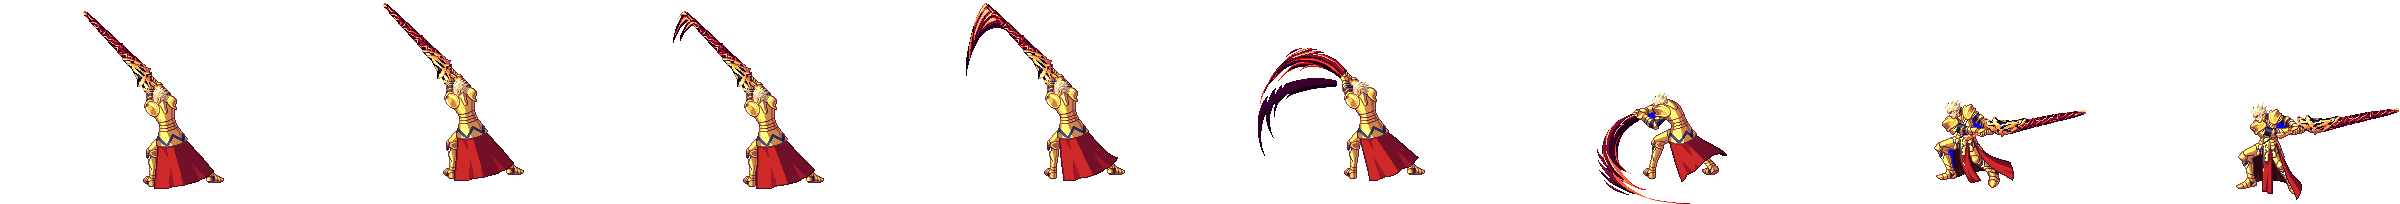
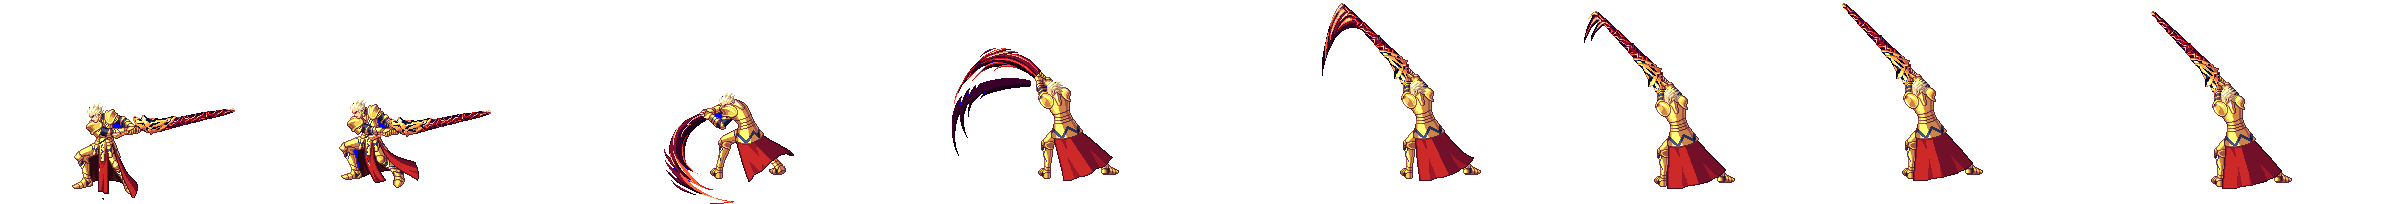
코드 수정
캐릭터 컨트롤러 수정

diff --git a/lab05_-_game_fraemwork2/main_state.py b/lab05_-_game_fraemwork2/main_state.py
@@ -14,9 +14,9 @@ import title_state
 
 name = "MainState"
 
-SKILL_MAXNUM = 4
+SKILL_MAXNUM = 5
 RIGHT,LEFT,UP,DOWN,Z,X = range(6)
-STATE_IDLE, STATE_MOVE, STATE_SKILL1, STATE_SKILL2,STATE_SKILL3 = range(SKILL_MAXNUM+1)
+STATE_IDLE, STATE_MOVE, STATE_SKILL1, STATE_SKILL2,STATE_SKILL3 = range(SKILL_MAXNUM)
 MON_STATE_IDLE,MON_STATE_MOVE,MON_STATE_ATTACK = range(3)
 InputKey = False
 
@@ -110,7 +110,13 @@ class Boy:
         self.image1 = load_image('skill3_right.png')
         self.image2 = load_image('skill1_right.png')
         self.image3 = load_image('walk_right.png')
-        #self.dir = 1
+
+        self.image4 = load_image('skill2_left.png')
+        self.image5 = load_image('skill3_left.png')
+        self.image6 = load_image('skill1_left.png')
+        self.image7 = load_image('walk_left.png')
+
+        self.dir = 1
         self.KeyNum = 0
         self.State = STATE_IDLE
         self.accel = random.randint(3,7)
@@ -126,7 +132,8 @@ class Boy:
         if self.State == STATE_IDLE:
             self.frame = 0
         elif self.State == STATE_MOVE:
-            self.x += 10
+            self.x = min(750,self.x+8*self.dir)
+            self.x = max(0,self.x+8*self.dir)
             self.frame = (self.frame+1)%8
         elif self.State == STATE_SKILL1:
             self.frame = (self.frame+1)%10
@@ -143,18 +150,32 @@ class Boy:
     def draw(self):
         if self.State == STATE_IDLE:
             #dir == right/left일때로 이미지 드로우 변경
-            #self.image1.clip_draw(self.frame*320,0,320,218,self.x, self.y)
-            self.image3.clip_draw(100,0,100,133,self.x, 90)
+            if self.dir == 1:
+                self.image3.clip_draw(100,0,100,133,self.x, 90)
+            elif self.dir == -1:
+                self.image7.clip_draw(100,0,100,133,self.x, 90)
         elif self.State == STATE_MOVE:
             #self.image1.clip_draw(self.frame*320,0,320,218,self.x, self.y)
-            self.image3.clip_draw(self.frame*100,0,100,133,self.x, 90)
+            if self.dir == 1:
+                self.image3.clip_draw(self.frame*100,0,100,133,self.x, 90)
+            elif self.dir == -1:
+                self.image7.clip_draw(self.frame*100,0,100,133,self.x, 90)
         elif self.State == STATE_SKILL1:
             #print("state attack")
-            self.image.clip_draw(self.frame*280,0,280,105,self.x, 90)
+            if self.dir == 1:
+                self.image.clip_draw(self.frame*280,0,280,105,self.x, 90)
+            elif self.dir == -1:
+                self.image4.clip_draw(self.frame*280,0,280,105,self.x, 90)
         elif self.State == STATE_SKILL2:
-            self.image2.clip_draw(self.frame*300,0,300,204,self.x, 120)
+            if self.dir == 1:
+                self.image2.clip_draw(self.frame*300,0,300,204,self.x, 120)
+            elif self.dir == -1:
+                self.image6.clip_draw(self.frame*300,0,300,204,self.x, 120)
         elif self.State == STATE_SKILL3:
-            self.image1.clip_draw(self.frame*320,0,320,218,self.x, 120)
+            if self.dir == 1:
+                self.image1.clip_draw(self.frame*320,0,320,218,self.x, 120)
+            elif self.dir == -1:
+                self.image5.clip_draw(self.frame*320,0,320,218,self.x, 120)
     def ChangePos(self):
         if self.State == STATE_IDLE:
             self.y = 90
@@ -191,20 +212,27 @@ class InputSystem:
     def InitSkill(self):
         for i in range(SKILL_MAXNUM):
             #skillname = state_skill 즉 스테이트가 된다
-            skill[i].name = i+1
             skill[i].skillNum = 0
         skill[0].frames = 8
         skill[0].key = [RIGHT]
         skill[0].size = 1
-        skill[1].frames = 10
-        skill[1].key = [RIGHT, RIGHT, X]
-        skill[1].size = 3
-        skill[2].frames = 8
-        skill[2].key = [RIGHT, DOWN, RIGHT]
+        skill[0].name = STATE_MOVE
+        skill[1].frames = 8
+        skill[1].key = [LEFT]
+        skill[1].size = 1
+        skill[1].name = STATE_MOVE
+        skill[2].frames = 10
+        skill[2].key = [RIGHT, RIGHT, X]
         skill[2].size = 3
-        skill[3].frames = 16
-        skill[3].key = [DOWN, RIGHT,Z]
+        skill[2].name = STATE_SKILL1
+        skill[3].frames = 8
+        skill[3].key = [RIGHT, DOWN, RIGHT]
         skill[3].size = 3
+        skill[3].name = STATE_SKILL2
+        skill[4].frames = 16
+        skill[4].key = [DOWN, RIGHT,Z]
+        skill[4].size = 3
+        skill[4].name = STATE_SKILL3
 
 #키 버퍼에 들어가는 시간 체크
     def CheckTime(self):
@@ -233,6 +261,10 @@ class InputSystem:
                     #print(self.SkillTime)
                     boy.frame = 0
                     boy.State = skill[i].name
+                    if i == 0:
+                        boy.dir = 1
+                    elif i == 1:
+                        boy.dir = -1
 
             self.ClearBuffer()
 
